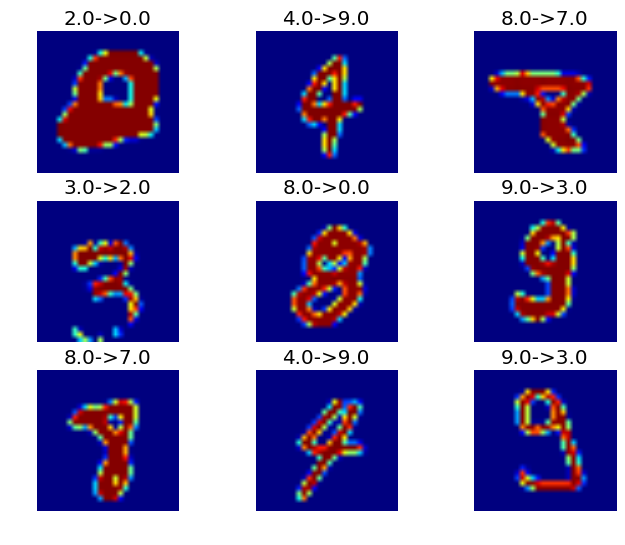
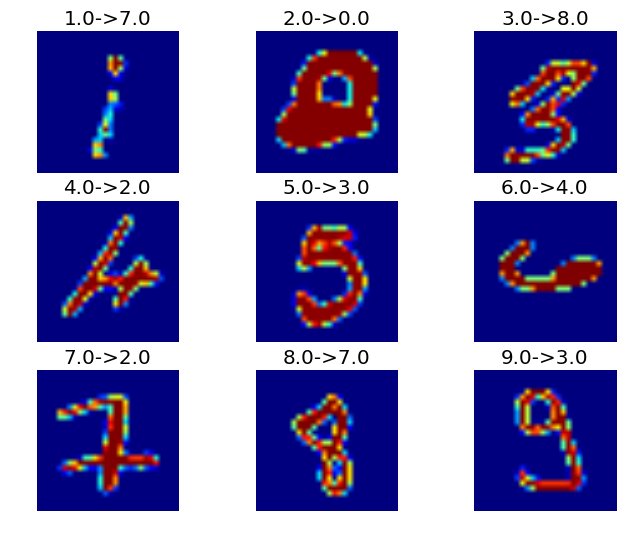
Updated classification code; plotting example of 1-9 incorrectly classified digits; output total number of misclassified digits

diff --git a/src/classify_mnist_with_optimal_nn.py b/src/classify_mnist_with_optimal_nn.py
@@ -68,16 +68,16 @@ if PLOT == True:
 plt.close()
 
 # find distribution of wrong values
-wrong = []
-wrong_v = []
+wrong_index = []
+wrong_value = []
 for i in range(0,len(X_test)):
     if y_pred[i] != y_test[i]:
-        wrong.append(i)
-        wrong_v.append(y_test[i])
+        wrong_index.append(i)
+        wrong_value.append(y_test[i])
 
 # plot histogram of wrong values
 plt.figure()
-plt.hist(wrong_v)
+plt.hist(wrong_value)
 title = "Histogram of missclassified digits"
 plt.title(title)
 plt.xlabel("Misclassified digits")
@@ -89,16 +89,23 @@ if PLOT == True:
     plt.show()
 plt.close()
 
+print "Total number of misclassified digits = %d" % len(wrong_value)
+
+wrong_digit = np.zeros(9)
+for k in range(1,10):
+    for i in range(0,len(wrong_value)):
+        if wrong_value[i] == k:
+            wrong_digit[k-1] = int(wrong_index[i])
+
 # Plot a few examples of incorrectly classified digits
 plotweights(mlp.coefs_[0],PLOT,PLOT_SAVE)
 X_train, y_train, X_validate, y_validate, X_test, y_test = fetch_MNIST_data()
 plt.figure()
-offset = len(wrong)-15
 for i in range(0,9):
     plt.subplot(3,3,i+1)
-    plt.imshow(X_test[wrong[i+offset]].reshape(28,28))
+    plt.imshow(X_test[wrong_digit[i]].reshape(28,28))
     plt.axis('off')
-    lbl = "{}->{}".format(y_test[wrong[i+offset]], y_pred[wrong[i+offset]])
+    lbl = "{}->{}".format(y_test[wrong_digit[i]], y_pred[wrong_digit[i]])
     plt.title(lbl)
 if PLOT_SAVE == True:
     plt.savefig('../imgs/misclassified_digits.png', bbox_inches='tight')
